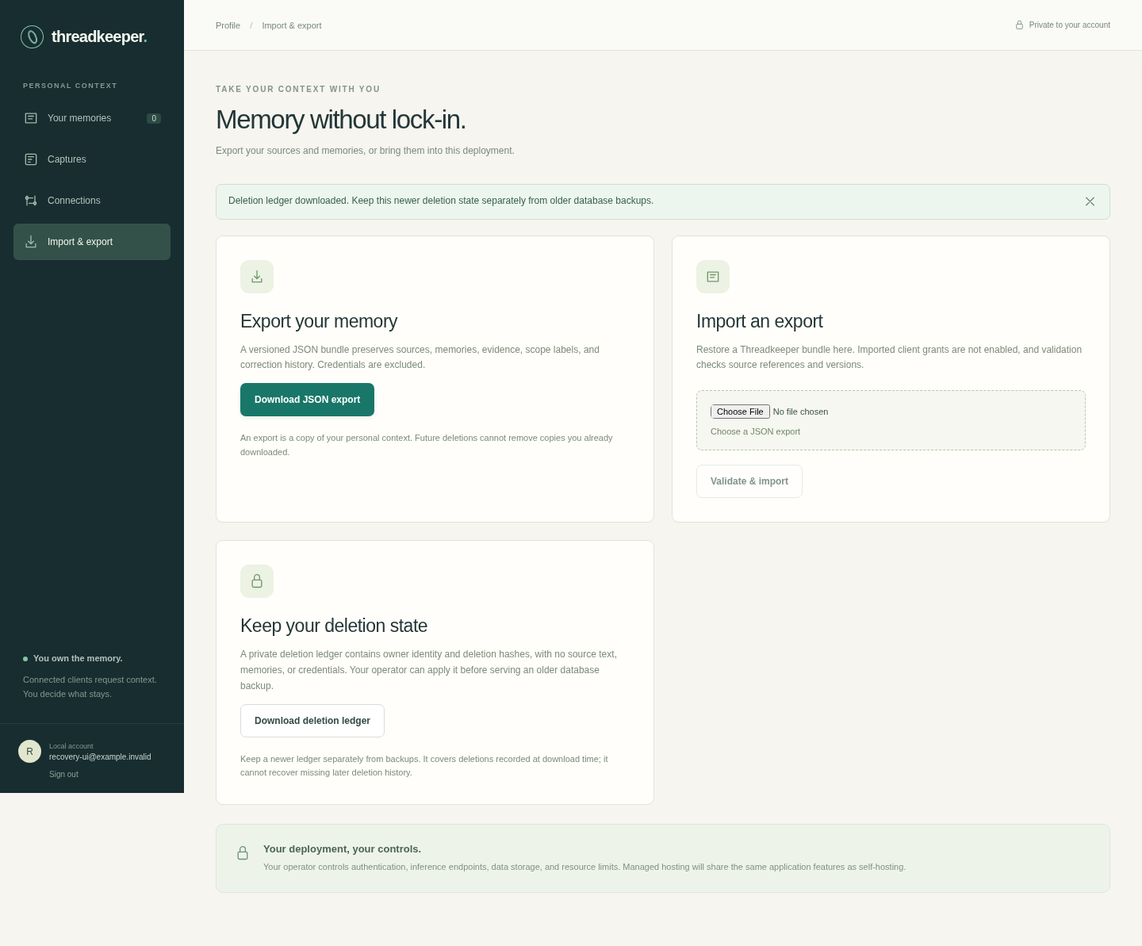
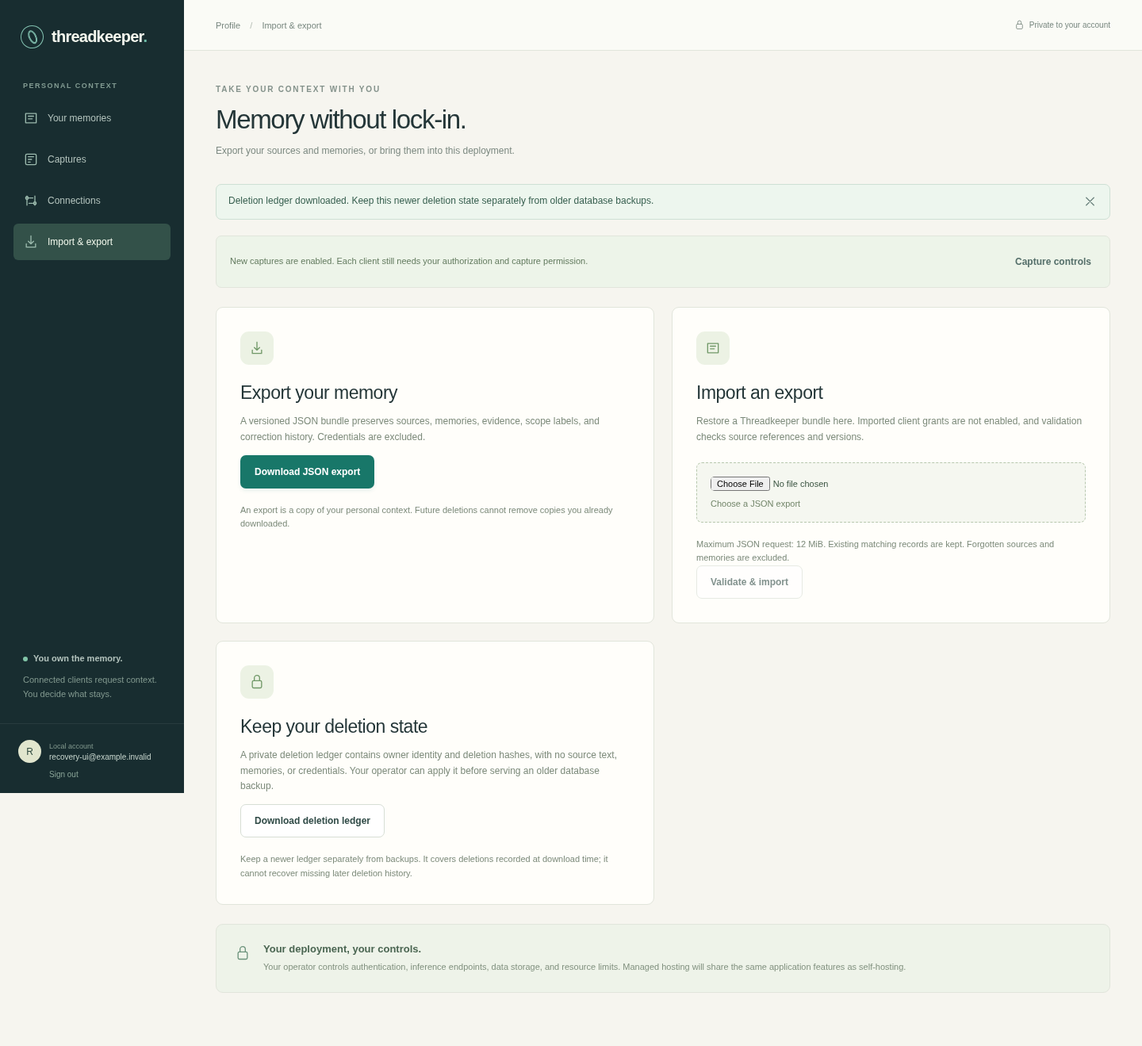
Verify isolated recovery and document completed MVP flows

diff --git a/deploy/recovery-demo.ts b/deploy/recovery-demo.ts
@@ -58,6 +58,13 @@ async function docker(args: string[], options: { cleanup?: boolean } = {}) {
   });
 }
 
+async function isolatedQuery(databaseUrl: string, sql: string) {
+  const client = new pg.Client({ connectionString: databaseUrl });
+  await client.connect();
+  try { return (await client.query(sql)).rows; }
+  finally { await client.end(); }
+}
+
 async function main() {
   assert.equal(process.versions.node.split('.')[0], '24', 'Recovery demonstration requires Node.js 24');
   const suffix = randomBytes(6).toString('hex');
@@ -134,6 +141,27 @@ async function main() {
     await writeFile(pgRestore, `#!${process.execPath}\nimport { spawn } from 'node:child_process';\nconst env = { ...process.env, PGHOST: '127.0.0.1', PGPORT: '5432' };\nfor (const key of ['DOCKER_HOST','DOCKER_CONTEXT','DOCKER_TLS','DOCKER_TLS_VERIFY','DOCKER_CERT_PATH']) delete env[key];\nconst child = spawn('docker', ['--host=unix:///var/run/docker.sock','exec','--interactive','--env','PGHOST','--env','PGPORT','--env','PGUSER','--env','PGPASSWORD','--env','PGDATABASE','--env','PGSSLMODE',${JSON.stringify(container)},'pg_restore',...process.argv.slice(2)], { env, stdio: ['pipe','ignore','ignore'] });\nconst timeout = setTimeout(() => child.kill('SIGTERM'), 30000);\nprocess.stdin.pipe(child.stdin);\nchild.stdin.on('error', () => process.stdin.destroy());\nchild.on('error', () => { clearTimeout(timeout); process.exitCode = 1; process.stdin.destroy(); });\nchild.on('close', code => { clearTimeout(timeout); process.exitCode = code ?? 1; process.stdin.destroy(); });\n`, { mode: 0o700 });
     const options: RestoreOptions = { backup, ledgers: ledgerPaths, targetName, restoreUrl: urlFor(targetName), runtimeUrl: urlFor(sourceName), passwordsFile, pgRestore };
 
+    // Functions and standalone enums do not have pg_class rows. They must still
+    // reject a supposedly fresh target before any marker or archive is written.
+    await isolatedQuery(options.restoreUrl, "CREATE FUNCTION public.synthetic_existing() RETURNS integer LANGUAGE sql AS 'SELECT 1'");
+    await assert.rejects(restoreDatabase(options), failure('restore_target_not_empty'));
+    assert.equal((await isolatedQuery(options.restoreUrl, "SELECT to_regclass('tk_recovery.state') AS relation"))[0].relation, null);
+    await isolatedQuery(options.restoreUrl, 'DROP FUNCTION public.synthetic_existing()');
+    await isolatedQuery(options.restoreUrl, "CREATE TYPE public.synthetic_existing AS ENUM ('fixture')");
+    await assert.rejects(restoreDatabase(options), failure('restore_target_not_empty'));
+    assert.equal((await isolatedQuery(options.restoreUrl, "SELECT to_regclass('tk_recovery.state') AS relation"))[0].relation, null);
+    await isolatedQuery(options.restoreUrl, 'DROP TYPE public.synthetic_existing');
+    await isolatedQuery(options.restoreUrl, 'SELECT lo_create(424242)');
+    await assert.rejects(restoreDatabase(options), failure('restore_target_not_empty'));
+    assert.equal((await isolatedQuery(options.restoreUrl, "SELECT to_regclass('tk_recovery.state') AS relation"))[0].relation, null);
+    await isolatedQuery(options.restoreUrl, 'SELECT lo_unlink(424242)');
+    await isolatedQuery(options.restoreUrl, 'CREATE SCHEMA pgx_private');
+    await isolatedQuery(options.restoreUrl, 'CREATE TABLE pgx_private.synthetic_existing(value text)');
+    await assert.rejects(restoreDatabase(options), failure('restore_target_not_empty'));
+    assert.equal((await isolatedQuery(options.restoreUrl, "SELECT to_regclass('tk_recovery.state') AS relation"))[0].relation, null);
+    await isolatedQuery(options.restoreUrl, 'DROP SCHEMA pgx_private CASCADE');
+    checks.push('native fresh targets containing functions, enums, large objects or tables in legitimate pgx_private schemas are rejected before marker/archive writes');
+
     const runtime = await holdRuntimeGate(options.restoreUrl, () => { throw new Error('Synthetic gate connection lost'); });
     try { await assert.rejects(restoreDatabase(options), failure('restore_target_in_use')); }
     finally { await runtime.close(); }
@@ -195,12 +223,34 @@ async function main() {
 
     const invalidBackup = join(directory, 'invalid.dump');
     await writeFile(invalidBackup, 'synthetic invalid archive', { mode: 0o600 });
-    await assert.rejects(restoreDatabase({ ...options, backup: invalidBackup, targetName: failureName, restoreUrl: urlFor(failureName) }), failure('archive_restore_failed'));
+    const failedOptions = { ...options, backup: invalidBackup, targetName: failureName, restoreUrl: urlFor(failureName) };
+    await assert.rejects(restoreDatabase(failedOptions), failure('archive_restore_failed'));
     failedTarget = connectDatabase(urlFor(failureName));
     assert.equal((await failedTarget.query('SELECT phase FROM tk_recovery.state')).rows[0].phase, 'prepared');
     assert.equal((await failedTarget.query("SELECT to_regclass('tk_memories') AS relation")).rows[0].relation, null);
     await assert.rejects(holdRuntimeGate(urlFor(failureName), () => undefined), failure('recovery_incomplete'));
     checks.push('native pg_restore failure retains a pending marker and blocks startup');
+    await failedTarget.close(); failedTarget = undefined;
+    await isolatedQuery(failedOptions.restoreUrl, "CREATE FUNCTION public.synthetic_ambiguous() RETURNS integer LANGUAGE sql AS 'SELECT 1'");
+    await assert.rejects(restoreDatabase(failedOptions), failure('recovery_restore_ambiguous'));
+    assert.equal((await isolatedQuery(failedOptions.restoreUrl, 'SELECT phase FROM tk_recovery.state'))[0].phase, 'prepared');
+    await isolatedQuery(failedOptions.restoreUrl, 'DROP FUNCTION public.synthetic_ambiguous()');
+    await isolatedQuery(failedOptions.restoreUrl, "CREATE TYPE public.synthetic_ambiguous AS ENUM ('fixture')");
+    await assert.rejects(restoreDatabase(failedOptions), failure('recovery_restore_ambiguous'));
+    assert.equal((await isolatedQuery(failedOptions.restoreUrl, 'SELECT phase FROM tk_recovery.state'))[0].phase, 'prepared');
+    await assert.rejects(holdRuntimeGate(failedOptions.restoreUrl, () => undefined), failure('recovery_incomplete'));
+    await isolatedQuery(failedOptions.restoreUrl, 'DROP TYPE public.synthetic_ambiguous');
+    await isolatedQuery(failedOptions.restoreUrl, 'SELECT lo_create(424242)');
+    await assert.rejects(restoreDatabase(failedOptions), failure('recovery_restore_ambiguous'));
+    assert.equal((await isolatedQuery(failedOptions.restoreUrl, 'SELECT phase FROM tk_recovery.state'))[0].phase, 'prepared');
+    await assert.rejects(holdRuntimeGate(failedOptions.restoreUrl, () => undefined), failure('recovery_incomplete'));
+    await isolatedQuery(failedOptions.restoreUrl, 'SELECT lo_unlink(424242)');
+    await isolatedQuery(failedOptions.restoreUrl, 'CREATE SCHEMA pgx_private');
+    await isolatedQuery(failedOptions.restoreUrl, 'CREATE TABLE pgx_private.synthetic_ambiguous(value text)');
+    await assert.rejects(restoreDatabase(failedOptions), failure('recovery_restore_ambiguous'));
+    assert.equal((await isolatedQuery(failedOptions.restoreUrl, 'SELECT phase FROM tk_recovery.state'))[0].phase, 'prepared');
+    await assert.rejects(holdRuntimeGate(failedOptions.restoreUrl, () => undefined), failure('recovery_incomplete'));
+    checks.push('native prepared targets with functions, enums, large objects or pgx_private tables refuse ambiguous replay and remain gated');
 
     const missingPasswords = join(directory, 'missing-passwords.json');
     await writeFile(missingPasswords, '{}', { mode: 0o600 });

diff --git a/deploy/restore.ts b/deploy/restore.ts
@@ -42,6 +42,18 @@ function databaseFor(client: pg.Client): Database {
   } };
 }
 
+export async function restoreTargetHasObjects(db: Pick<Database, 'query'>, allowRecoverySchema = false) {
+  const excluded = ['information_schema', ...(allowRecoverySchema ? ['tk_recovery'] : [])];
+  const result = await db.query(`SELECT EXISTS (
+    SELECT 1 FROM pg_depend d JOIN pg_namespace n ON d.refclassid='pg_namespace'::regclass AND d.refobjid=n.oid
+      WHERE n.nspname !~ '^pg_' AND NOT (n.nspname=ANY($1::text[]))
+    UNION ALL SELECT 1 FROM pg_namespace n WHERE n.nspname !~ '^pg_' AND n.nspname<>'public' AND NOT (n.nspname=ANY($1::text[]))
+    UNION ALL SELECT 1 FROM pg_extension WHERE extname<>'plpgsql'
+    UNION ALL SELECT 1 FROM pg_largeobject_metadata
+  ) AS present`, [excluded]);
+  return Boolean(result.rows[0]?.present);
+}
+
 async function restoreArchive(options: RestoreOptions, url: URL, expectedHash: string) {
   // Passwords stay in child environment, never argv or operational output.
   const inherited = Object.fromEntries(Object.entries(process.env).filter(([key]) => !key.startsWith('PG')));
@@ -75,7 +87,7 @@ export async function restoreDatabase(options: RestoreOptions) {
   if (new Set(ledgers.map(ledger => ledger.owner_id)).size !== ledgers.length) throw new DomainError(400, 'duplicate_ledger_owner');
   const ledgerHash = createHash('sha256').update(canonical([...ledgers].sort((a, b) => a.owner_id.localeCompare(b.owner_id)))).digest('hex');
   const backupHash = await digestFile(options.backup);
-  if (process.platform !== 'win32' && (await stat(options.passwordsFile)).mode & 0o077) throw new DomainError(400, 'recovery_password_file_not_private');
+  if (process.platform !== 'win32' && ((await stat(options.passwordsFile)).mode & 0o077) !== 0) throw new DomainError(400, 'recovery_password_file_not_private');
   const passwords = JSON.parse(await readFile(options.passwordsFile, 'utf8')) as unknown;
   if (!passwords || typeof passwords !== 'object' || Array.isArray(passwords)
     || Object.entries(passwords).some(([id, password]) => !id || typeof password !== 'string' || password.length < 12 || password.length > 1024)) throw new DomainError(400, 'recovery_password_file_invalid');
@@ -91,18 +103,14 @@ export async function restoreDatabase(options: RestoreOptions) {
     if (otherConnections.rows.length) throw new DomainError(409, 'restore_target_in_use');
     const exists = (await client.query("SELECT to_regclass('tk_recovery.state') AS relation")).rows[0]?.relation;
     if (!exists) {
-      const objects = await client.query(`SELECT 1 FROM pg_class c JOIN pg_namespace n ON n.oid=c.relnamespace
-        WHERE n.nspname NOT LIKE 'pg_%' AND n.nspname<>'information_schema' LIMIT 1`);
-      if (objects.rows.length) throw new DomainError(409, 'restore_target_not_empty');
+      if (await restoreTargetHasObjects(db)) throw new DomainError(409, 'restore_target_not_empty');
       await prepareRecoveryState(db, backupHash, ledgerHash);
     }
     const state = (await client.query('SELECT phase,backup_hash,ledger_hash,report FROM tk_recovery.state WHERE singleton=true')).rows[0];
     if (!state || state.backup_hash !== backupHash || state.ledger_hash !== ledgerHash) throw new DomainError(409, 'recovery_artifact_mismatch');
     if (state.phase === 'complete') return { status: 'already_complete', ...state.report };
     if (state.phase === 'prepared') {
-      const objects = await client.query(`SELECT 1 FROM pg_class c JOIN pg_namespace n ON n.oid=c.relnamespace
-        WHERE n.nspname NOT LIKE 'pg_%' AND n.nspname NOT IN ('information_schema','tk_recovery') LIMIT 1`);
-      if (objects.rows.length) throw new DomainError(409, 'recovery_restore_ambiguous');
+      if (await restoreTargetHasObjects(db, true)) throw new DomainError(409, 'recovery_restore_ambiguous');
       await restoreArchive(options, target, backupHash);
       await client.query("UPDATE tk_recovery.state SET phase='restored' WHERE singleton=true AND phase='prepared'");
     }

diff --git a/docs/HANDOFF.md b/docs/HANDOFF.md
@@ -1,17 +1,31 @@
 # Threadkeeper handoff
 
-## Deletion-aware operational recovery development — 2026-10-03
+## Deletion-aware operational recovery checkpoint — 2026-10-03
 
-Priority 6 is implemented on `codex/deletion-aware-recovery`, initially based on candidate review `2f58069` and being integrated with the client-control/forgetting/profile prerequisites. It has not been pushed or reviewed yet. Owners can download a strict non-content deletion ledger from Import & export or the session-only HTTP endpoint; an operator can collect it while services are stopped. The native restore command accepts only a separate empty `tk_restore_*` database, holds an exclusive database lock, creates a persistent fail-closed marker before actual archive restore, checks streamed artifact identity, then applies all-history/duplicate-source graph purges transactionally. Completion also revokes restored clients/sessions and rotates every restored account password using an operator-managed private password file.
+Priority 6 is implemented on `codex/deletion-aware-recovery`, explicitly stacked on the final priority 5 product tree (initially `6f65eb8`; ancestry-only successor `37e952b` targets actual main `981f679`). Priority 5 [PR #8](https://github.com/ThomsenDrake/threadkeeper/pull/8) and this recovery increment still require their own final-head review/merge. This recovery branch has not been pushed yet; the coordinating session owns the PR workflow.
 
-API, worker, reindex and standalone migration entrypoints hold shared session locks; API routes/readiness reject incomplete recovery markers. Once-per-migration SQL plus SHA-256 ledger recording is atomic and serialized; legacy rerunnable setup is adopted without editing historical SQL. Checksum changes, history gaps and unknown future versions fail startup. [Portability procedures](PORTABILITY.md) include concrete ledger/restore/status commands, isolated upgrade checks, failure/resume rules and rollback limits.
+Owners can download a strict non-content deletion ledger from Import & export or the session-only HTTP endpoint; an operator can export it while services are stopped. Export preserves future-dated imported deletion metadata, rejects unknown owners and creates no canonical records. Recovery requires a separate empty `tk_restore_*` PostgreSQL database and exact restored account/canonical-owner ledger coverage. It holds an exclusive session lock, commits a persistent pending marker before actual archive restore, checks the bytes streamed against the recorded digest, applies checksum-tracked migrations, and purges matching current and historical assertions before permitting startup. Owner previews and recovery call the same seeded connected-graph/application helper, including duplicate normalized sources and correction/confirmation/dismissal history. Completion atomically revokes restored client grants, clears sessions and rotates all restored account passwords from a private operator file. API, worker, migrations and reindexing hold shared session locks; incomplete markers gate readiness and all HTTP/MCP requests.
 
-Focused verification passed **9 PGlite tests** for binary-snapshot recovery and migrations and **2 API tests** for owner authorization, artifact exclusions and gating. Typechecking and production build passed. [Chromium 151 evidence](measurements/recovery-ui-qa.json) confirms keyboard/mobile ledger download, HTTP failure recovery and suppression of a held authorized response after sign-out; both screenshots were visually reviewed. This initial browser evidence predates final prerequisite integration and exercises synthetic PGlite only.
+Final integrated `pnpm check` passed **107/107 tests**, typechecking and the production build. Both `pnpm demo` lifecycle/export-import paths passed. The actual application containers passed **11 native full-stack stages**, migration re-invocation and **53 native-enabled regression tests** on PostgreSQL **17.11** / pgvector **0.8.7**; [sanitized integration evidence](measurements/recovery-integration.json) records those synthetic HTTP observations. [Final Chromium 151 evidence](measurements/recovery-ui-qa.json) passed **7 functional ledger checks** plus desktop/mobile screenshot review, including keyboard download, request failure/retry, 390px layout and suppression of a held authorized response after sign-out. Its production asset was `index-kgeGInNT.js`.
 
-The separately executed `pnpm recovery:demo` passed using disposable **PostgreSQL 17.11 / pgvector 0.8.7 / Docker 28.4.0**, an actual custom-format `pg_dump` archive and native `pg_restore`. It covered 2 owners and removed 4 forgotten memories, 6 sources and 3 jobs, with evidence/history/vectors absent from profile, fresh recall and exports; another owner survived. It revoked 1 client and 1 session, rejected the old password and accepted the rotated one. Runtime/recovery lock exclusion, malformed-archive pending gating, transactional password-reset/purge rollback and same-artifact resume/idempotence, and native migration concurrency/checksum/rollback passed. The harness cleaned up all disposable databases, container, archives and synthetic credentials. No operator database, provider, deployed service or installed MCP host was used.
+The separate actual custom-format `pg_dump`/`pg_restore` harness passed **9 native recovery check groups** on PostgreSQL **17.11** / pgvector **0.8.7** / Docker **28.4.0**. [Native archive evidence](measurements/recovery-native-qa.json) records 2-owner coverage and removal of 4 forgotten memories, 6 sources and 3 jobs; evidence/revisions/vectors were absent through profile, fresh recall and export, and the other owner survived. One client and one session were invalidated; the old password failed and the rotated password worked. Tests also proved runtime/recovery lock exclusion, malformed-archive pending gating, failed purge/password-reset rollback, same-artifact resume/idempotence and concurrent once-only migration/checksum/rollback behavior. All disposable databases, containers, archives and synthetic credentials were removed.
 
-Owner previews and recovery now call the one shared graph helper; combined focused forgetting/recovery/migration checks passed **23/23**, typecheck/build and both demos after priority 3/4 integration. Ledger export is read-only, rejects unknown owners, and preserves future-dated imported tombstone metadata. Remaining work for this increment: integrate the final priority 5 prerequisite, run final relevant verification, and submit the resulting head through GitHub `@codex review` when the root task authorizes a PR. A raw restore bypassing the recovery utility, missing newer deletion history, retained exports/backups/provider/client copies, and unavailable post-backup captures/corrections are outside the supported guarantee. GPU inference and installed-host release gates remain separate.
+Local reviewers found three concrete empty-target gaps: relation-only checks missed standalone functions/enums, namespace checks missed PostgreSQL large objects, and a wildcard schema prefix incorrectly excluded legitimate `pgx_private` schemas. Both fresh-target and prepared-target ambiguity guards now check namespace dependencies, custom schemas, nondefault extensions and large-object metadata, using a literal reserved `pg_` schema prefix. Native regressions reject each object category before promotion. The functions/enums fix preceded the 107-test/full-application-native checkpoint; **only the isolated large-object/literal-prefix guards and their native harness regressions changed afterward**. The final actual archive harness, typechecking and whitespace checks passed after that last change; unchanged broad/application-container suites were not repeated.
 
+### Implemented acceptance matrix
+
+| Product outcome | Implemented flow and actual evidence | Delivery state |
+| --- | --- | --- |
+| Capture progress and retry | Live canonical status, owner retry, independent HTTP/MCP recall and worker attempt fences; native full-stack checks | Merged [PR #4](https://github.com/ThomsenDrake/threadkeeper/pull/4), main `26c025d` |
+| Candidate review | Explicit confirm/edit-and-confirm/dismiss, separate user evidence and preserved model history; profile/HTTP/MCP/native checks | Merged [PR #5](https://github.com/ThomsenDrake/threadkeeper/pull/5), main `487e4d4` |
+| Client connection/control | Endpoint/configuration guidance, observed-use metadata, scoped capture/recall, pause/resume and revocation; browser/native checks | Merged [PR #6](https://github.com/ThomsenDrake/threadkeeper/pull/6), main `50c7dc4` |
+| Predictable forgetting | Current graph preview, stale-consent rejection, source-only/duplicate cleanup and in-flight fences; browser/native checks | Merged [PR #7](https://github.com/ThomsenDrake/threadkeeper/pull/7), main `981f679` |
+| Practical owner archive | Complete snapshot/ranking-guarded pagination, recovery states and counted/tombstone-safe import; 16 profile browser checks and native regressions | [PR #8](https://github.com/ThomsenDrake/threadkeeper/pull/8), final-head review/merge pending |
+| Operational recovery | Newer owner ledgers, guarded isolated native restore, historical graph purge, credential resets and atomic migrations; 9 actual archive check groups | Implemented in this explicitly dependent branch; review/merge pending |
+
+The supported recovery limits remain explicit in [PORTABILITY.md](PORTABILITY.md): no raw restore bypass, no reconstruction of unavailable newer deletion history or later captures/corrections, no automatic schema downgrade, and no erasure of retained exports/backups/provider/client copies. Recovery performs no inference and needs no hosted service.
+
+External release gates remain open: this task has no usable operator-managed provider credentials for fresh learned-model quality/latency evaluation, no NVIDIA GPU/operator inference server for the full local Nemotron recipe, and no installed intended MCP host to validate actual client invocation. Historical provider calls and independent SDK clients remain accurately labeled. The OSS license/publication choice and deployment/DNS/paid-resource authorization are still separate user decisions. None of these unavailable gates was replaced with additional fixture or configuration claims.
 
 ## Profile archive development — 2026-10-03
 

diff --git a/docs/MVP_BRIEF.md b/docs/MVP_BRIEF.md
@@ -1,6 +1,6 @@
 # Threadkeeper MVP
 
-Status: implementation in progress. Product requirements come from Drake's request and the attached Threadkeep development brief. These are acceptance criteria, not completed results.
+Status: private MVP development. The core owner/client product flows are implemented; final review/merge and external release validation remain separately tracked in [HANDOFF.md](HANDOFF.md). Product requirements come from Drake's request and the attached Threadkeep development brief.
 
 Threadkeeper owns portable personal context for existing chatbots and coding agents. Its profile is the user's control surface. The domain is `threadkeep.si`; the tagline is “Switch agents. Keep the thread.” A general assistant, task manager, and automatic access to every client's conversations are outside scope.
 
@@ -45,7 +45,7 @@ The release gate additionally requires independent existing chatbot/coding-agent
 
 ## Existing implementation and infrastructure
 
-Initial workspace inspection found the attached brief and no existing implementation. No remote repository implementation was established: the available Executor capabilities did not expose a repository inspection tool. This workspace contains the new implementation begun in this session; inspect its code before continuing elsewhere.
+The private repository now contains the React profile, authenticated HTTP/MCP service, bounded extraction/indexing worker and PostgreSQL/optional pgvector store. Captures and retries, explicit candidate review, scoped client controls, guarded source/memory forgetting, complete owner pagination/import feedback and isolated deletion-aware recovery work through the canonical database. [DEVELOPMENT_PLAN.md](DEVELOPMENT_PLAN.md) and [HANDOFF.md](HANDOFF.md) record actual merge state and synthetic acceptance evidence; inspect current main and pending PRs before continuing development.
 
 DNS migration is existing user-reported work. This build makes no registrar, Cloudflare, domain, deployment, or paid-resource changes. No public demo is implied by local code or checks.
 

diff --git a/docs/DEVELOPMENT_PLAN.md b/docs/DEVELOPMENT_PLAN.md
@@ -31,7 +31,7 @@ Priority 4 merged in [PR #7](https://github.com/ThomsenDrake/threadkeeper/pull/7
 
 Priority 5 is implemented and verified on `codex/profile-scaling`, now rebased onto actual merged main `981f679`: complete owner pagination with snapshot/ranking guards, realistic older-record workflows, counted atomic import feedback and recoverable profile states. Required deletion-preview guards are integrated. [PR #8](https://github.com/ThomsenDrake/threadkeeper/pull/8)'s actionable consistency finding is fixed: positive offsets require both guards before retrieval work. Final **97 tests**, typechecking/build and both demos passed. Earlier combined **53 native-enabled regressions** and **16 production browser checks** belong to the preceding combined tree; [handoff evidence](HANDOFF.md) separates those synthetic observations from release gates. The coordinating session will request review of the resulting head and complete the review/merge loop before treating it as merged.
 
-The next unblocked implementation outcome is priority 6: deletion-aware restore, reconciliation and migration/recovery procedures. Complete priority 5's pending final-head review/merge before treating it as main.
+The six product outcomes are implemented. Complete pending prerequisite-aware review/merge loops for priorities 5–6, then perform the remaining external release validation when its access and hardware become available. Do not equate synthetic acceptance with installed-host or learned-model/GPU validation.
 
 Priority 6 is implemented on `codex/deletion-aware-recovery`: owner deletion-ledger download, isolated native archive restore with startup gating, all-history graph reconciliation, password/client/session reset and checksum-tracked transactional migrations. Its synthetic PGlite/browser/native archive evidence and prerequisite integration/review state are recorded in [HANDOFF.md](HANDOFF.md). Treat it as pending until the final integrated head is reviewed and merged.
 

diff --git a/docs/PORTABILITY.md b/docs/PORTABILITY.md
@@ -113,4 +113,4 @@ Before upgrading, stop API/worker, retain a consistent backup and a current dele
 node --env-file=.env --import tsx deploy/migrate.ts
 ```
 
-The API also migrates before listening. Keep worker and API on the same application revision. Migration SQL and ledger recording commit atomically; a failed upgrade preserves the prior schema and ledger. There is no automatic down-migration. If a completed upgrade must be rolled back, restore a compatible earlier application/database pair into isolation and reconcile the newest available deletion ledgers before promotion. Never rewrite a historical migration or bypass a checksum failure to force an older binary to run against a newer schema.
+The API also migrates before listening. Keep worker and API on the same application revision. Migration SQL and ledger recording commit atomically; a failed upgrade preserves the prior schema and ledger. There is no automatic down-migration. The recovery utility applies the migrations shipped with its own application revision; it does not produce an older schema for an older binary. A binary rollback after a committed schema upgrade is unsupported unless that release explicitly validates compatibility. Recover using a compatible application revision and the newest available deletion ledgers, after rehearsing the isolated procedure. Never rewrite a historical migration or bypass a checksum failure to force an older binary to run against a newer schema.
